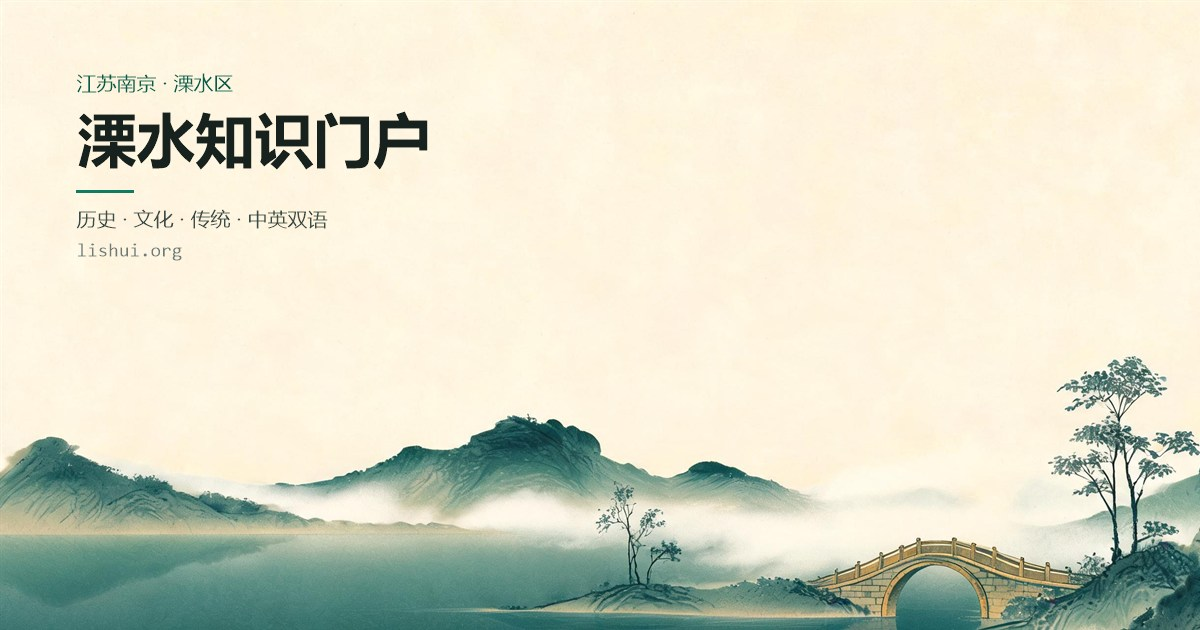
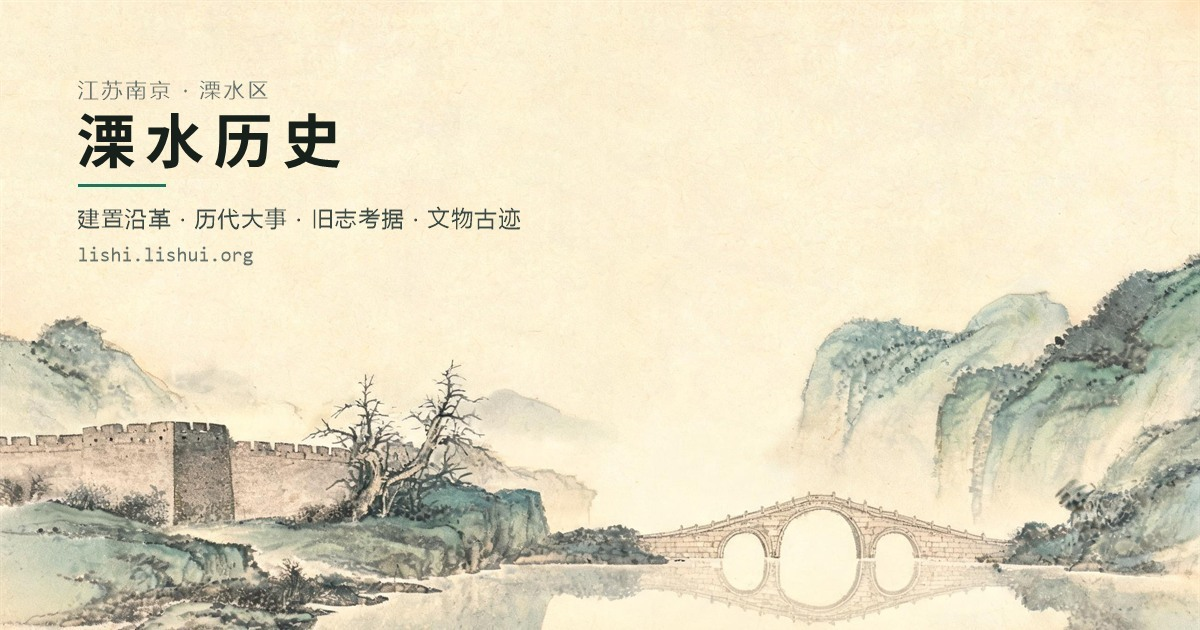
Follow the portal and sub-site rename in the site's own strings
The site is now 溧水历史 and the portal it points back to is A Place Called Lishui, in the network bar, the footer, the structured data and the about page.

diff --git a/README.md b/README.md
@@ -1,10 +1,10 @@
-# site-lishi · 溧水历史志站点库
+# site-lishi · 溧水历史站点库
 
-溧水知识站群「溧水历史志」分站的站点库。内容在 `lishui-history`，共享底座在 `lishui-kit`，本站只写历史志特有的部分。
+溧水一方「溧水历史」分站的站点库。内容在 `lishui-history`，共享底座在 `lishui-kit`，本站只写历史分站特有的部分。
 
 - 域名：`lishi.lishui.org`（中文在根路径，英文在 `/en/` 下）
 - 生成器：Astro 5（静态输出，产物是纯 HTML）
-- 规划依据：《溧水知识站群建设规划 v1.3》《溧水历史志分站计划 v1.0》，技术选型见《技术选型详解》
+- 规划依据：《溧水一方建设规划 v1.3》《溧水历史分站计划 v1.0》，技术选型见《技术选型详解》
 
 ## 三个库的关系
 
@@ -50,7 +50,7 @@ npm run check        # 以上四步串起来，发布前跑这一条
 ## 本站只写这些
 
 1. **页面与视图**：`src/views/` 与 `src/pages/`。样式与知识组件一律用 kit 的，不在本站写 CSS。
-2. **分类与分期**：六类内容（`CATEGORIES`）与五期分期（`PERIODS`）是历史志特有的，属站点层；kit 不认这套分类，只提供 `catLabel` 这类通用助手。
+2. **分类与分期**：六类内容（`CATEGORIES`）与五期分期（`PERIODS`）是历史分站特有的，属站点层；kit 不认这套分类，只提供 `catLabel` 这类通用助手。
 3. **附加校验**：`event` 必须有时间字段、古迹的文保级别与批次配套、年代落在置县至今区间等，由内容库的 `scripts/validate.mjs` 以 `extra` 回调注入 kit 的校验引擎。
 
 改样式、改组件、改双语路由规则，都去 `lishui-kit` 改；本站只填数据。
